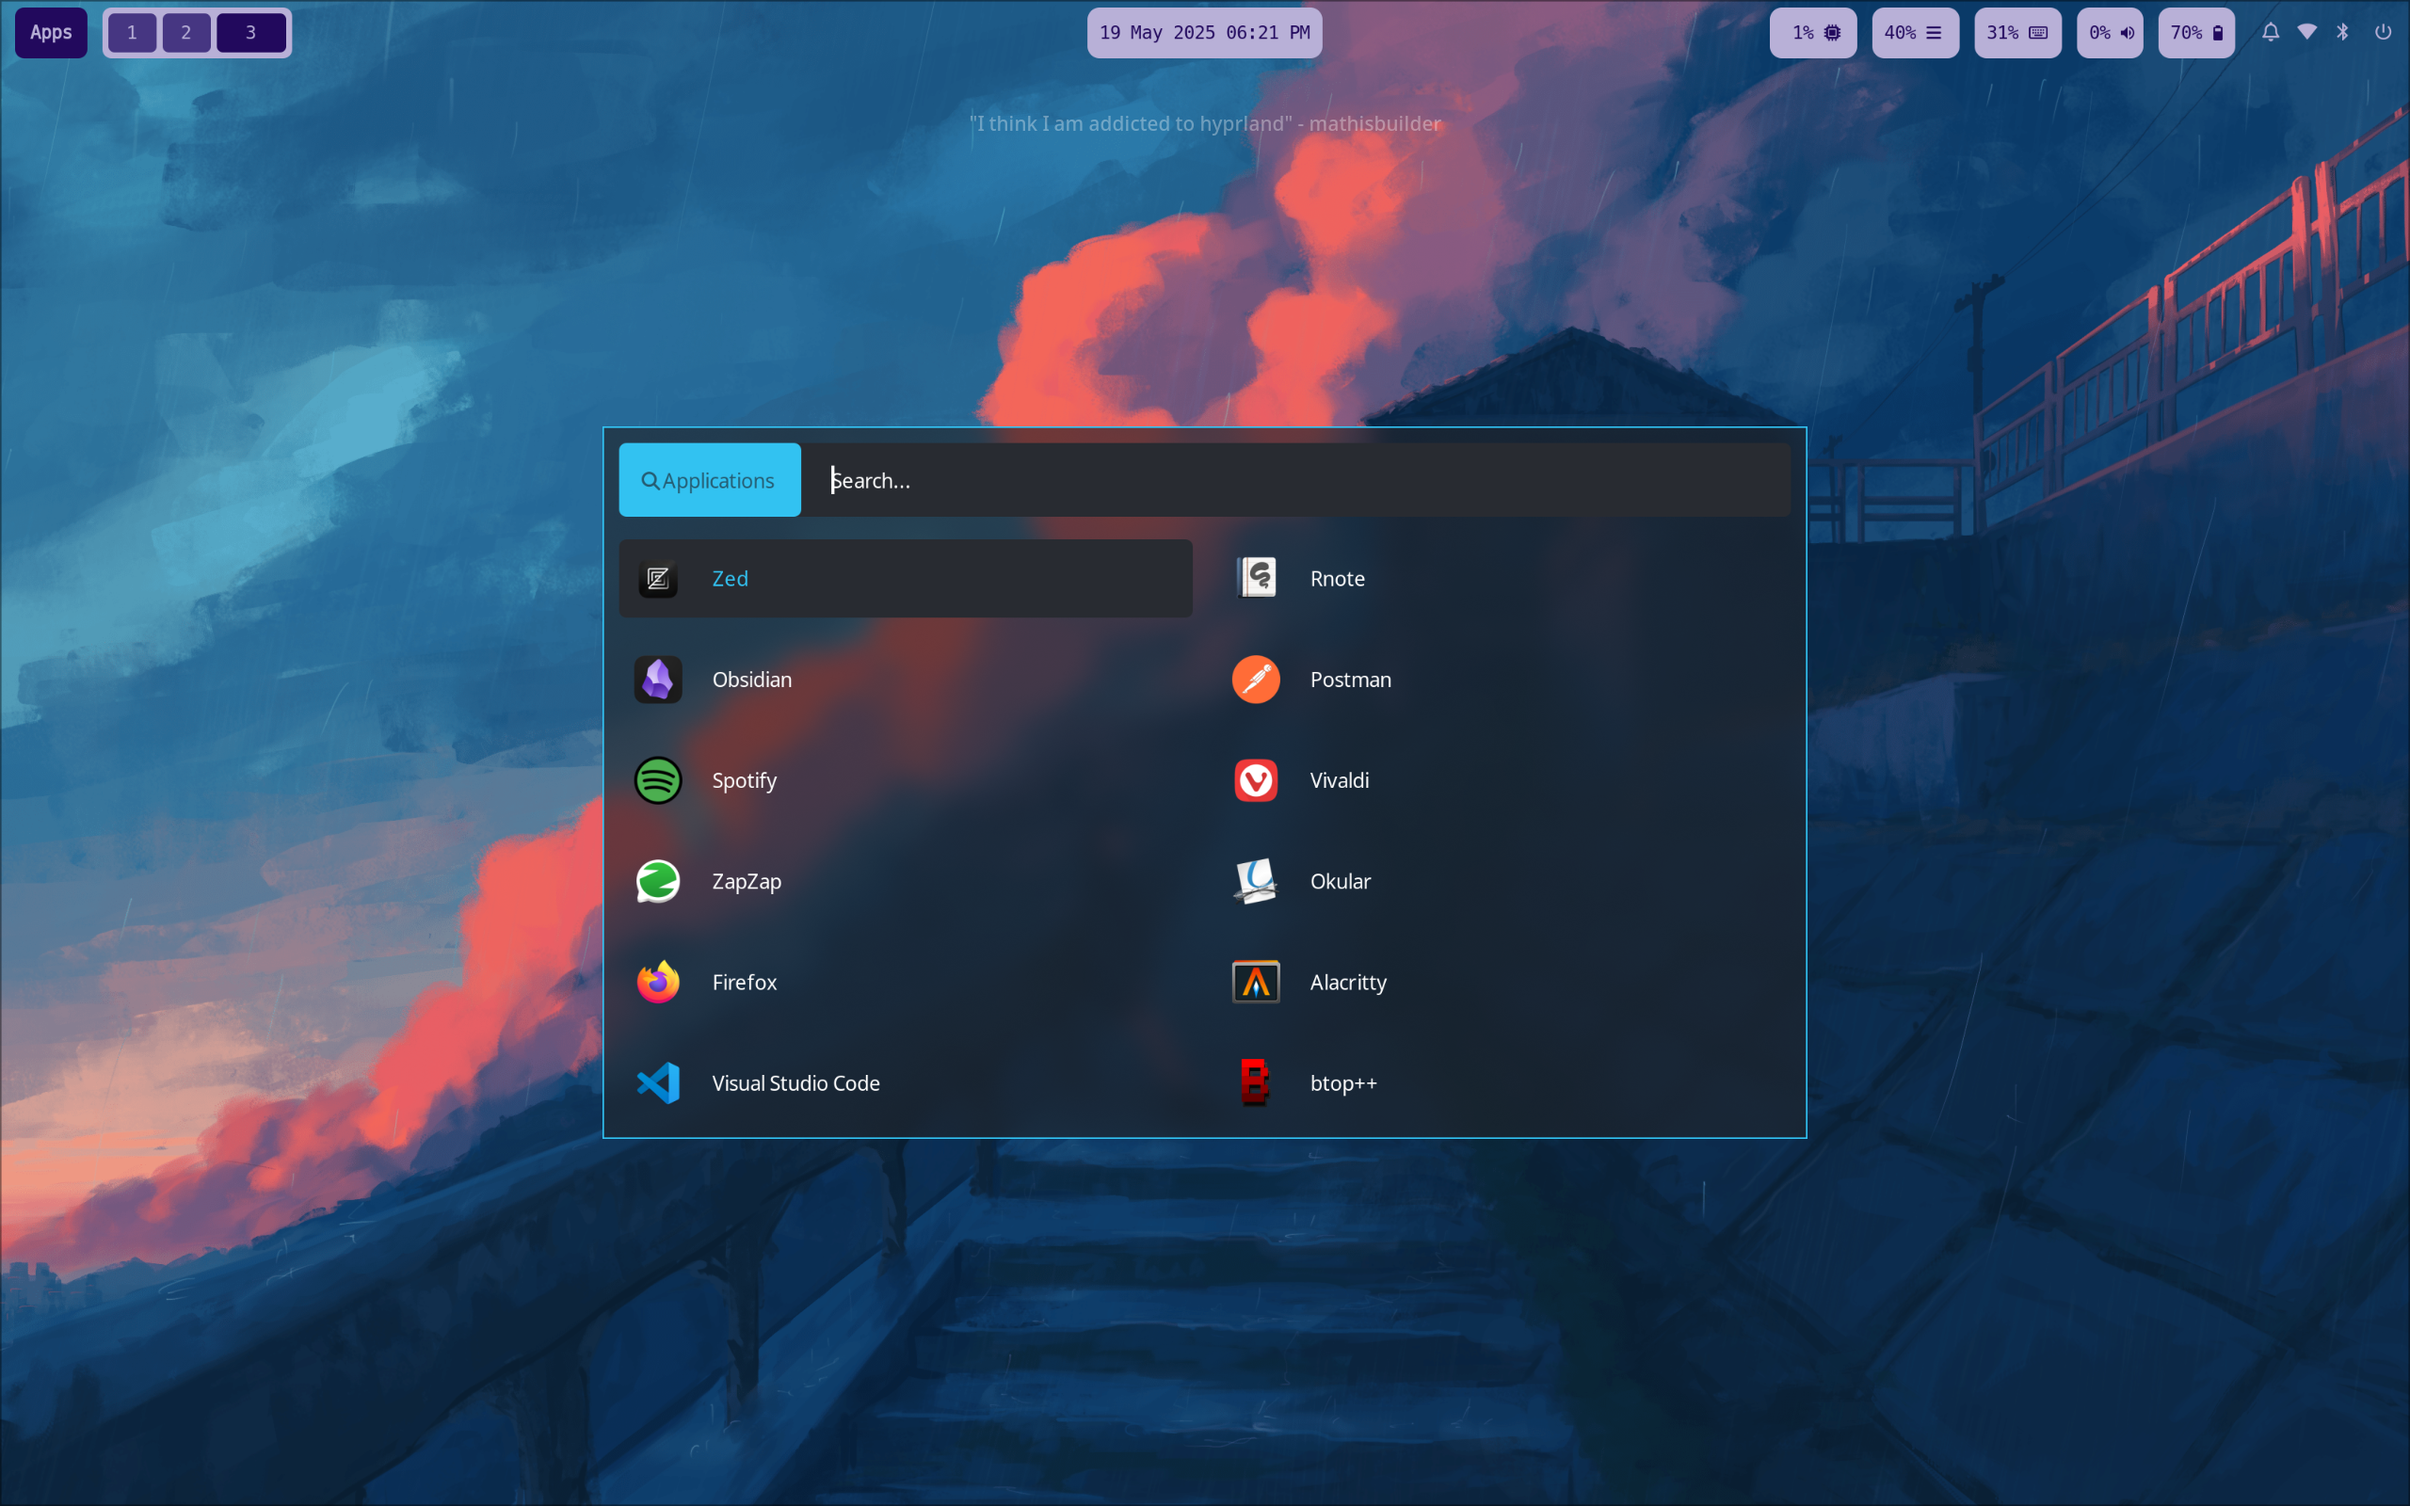
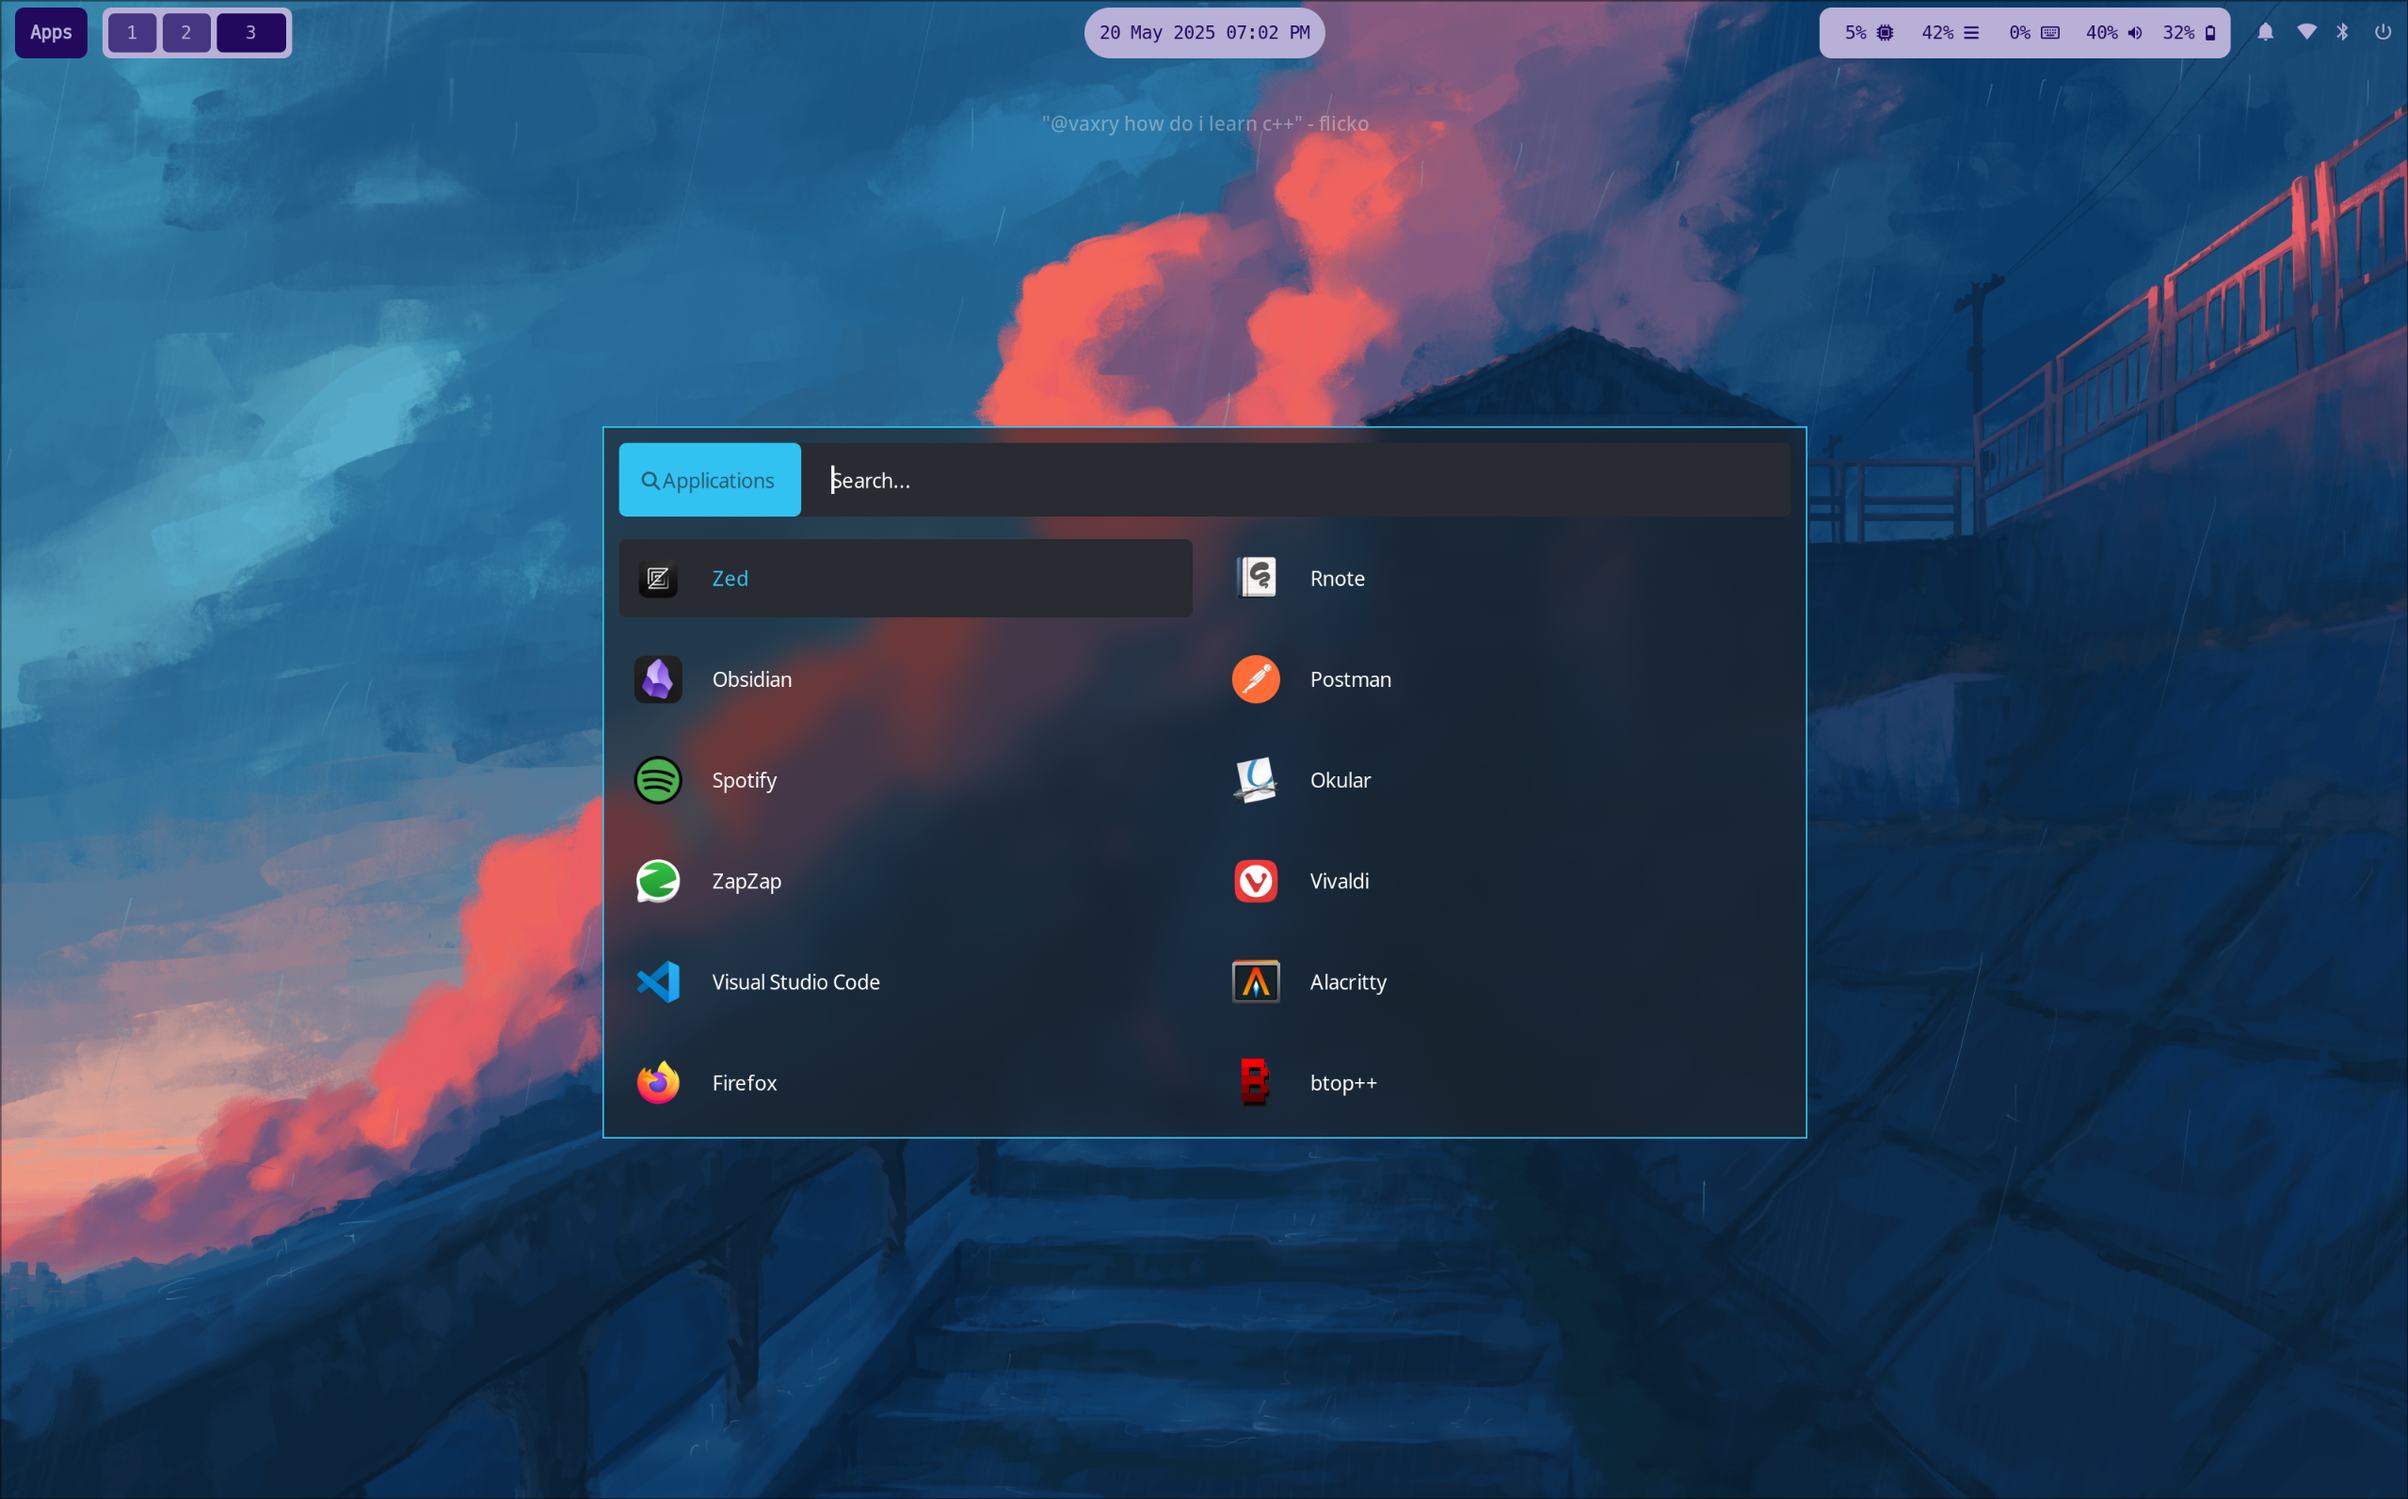
updated waybar design

diff --git a/waybar/style.css b/waybar/style.css
@@ -23,10 +23,19 @@ button:hover {
   transition: none;
 }
 
-#window {
+#custom-app-menu {
+  color: #B8B0D7;
+  background: #22095D;
+
   margin-top: 5px;
   margin-left: 10px;
-  color: rgba(255, 255, 255, 0.596);
+  margin-right: 10px;
+
+  padding-left: 10px;
+  padding-right: 10px;
+
+  border-radius: 6px;
+  font-weight: 900;
 }
 
 #workspaces {
@@ -72,31 +81,50 @@ button:hover {
   color: red;
 }
 
-#custom-power-menu {
-  margin-right: 15px;
+#window {
+  margin-top: 5px;
+  margin-left: 10px;
+  color: rgba(255, 255, 255, 0.596);
 }
 
+#custom-timedate,
 #cpu,
 #memory,
-#pulseaudio,
-#custom-battery,
 #custom-keyboard-brightness,
-#custom-timedate {
+#pulseaudio,
+#custom-battery {
   color: #22095D;
   background: #B8B0D7;
 
   margin-top: 5px;
-  /* margin-bottom: 5px; */
 
   padding-left: 8px;
   padding-right: 8px;
 
-  border-radius: 8px;
   font-weight: 500;
 }
 
 #custom-timedate {
   font-weight: 600;
+  padding-left: 10px;
+  padding-right: 10px;
+  border-radius: 25px;
+}
+
+#cpu {
+  border-top-left-radius : 8px;
+  border-bottom-left-radius : 8px;
+  padding-left: 10px;
+}
+
+#pulseaudio.muted {
+  color: rgba(255, 0, 0, 0.4);
+}
+
+#custom-battery {
+  border-top-right-radius : 8px;
+  border-bottom-right-radius : 8px;
+  padding-right: 10px;
 }
 
 #custom-netwifi,
@@ -108,34 +136,14 @@ button:hover {
   font-size: 14px;
 
   margin-top: 5px;
-  /* margin-bottom: 5px; */
+  margin-left: 10px;
 }
 
 #custom-notification {
-  margin-left: 8px;
-  padding-right: 5px;
+  margin-left: 18px;
+  padding-right: 8px;
 }
 
-#pulseaudio,
-#custom-battery {
-  /* font-size: 13px; */
-}
-
-#pulseaudio.muted {
-  color: rgba(255, 0, 0, 0.4);
-}
-
-#custom-app-menu {
-  color: #B8B0D7;
-  background: #22095D;
-
-  margin-top: 5px;
-  /* margin-bottom: 5px; */
-  margin-left: 10px;
-
-  padding-left: 10px;
-  padding-right: 10px;
-
-  border-radius: 6px;
-  font-weight: 900;
+#custom-power-menu {
+  margin-right: 15px;
 }
